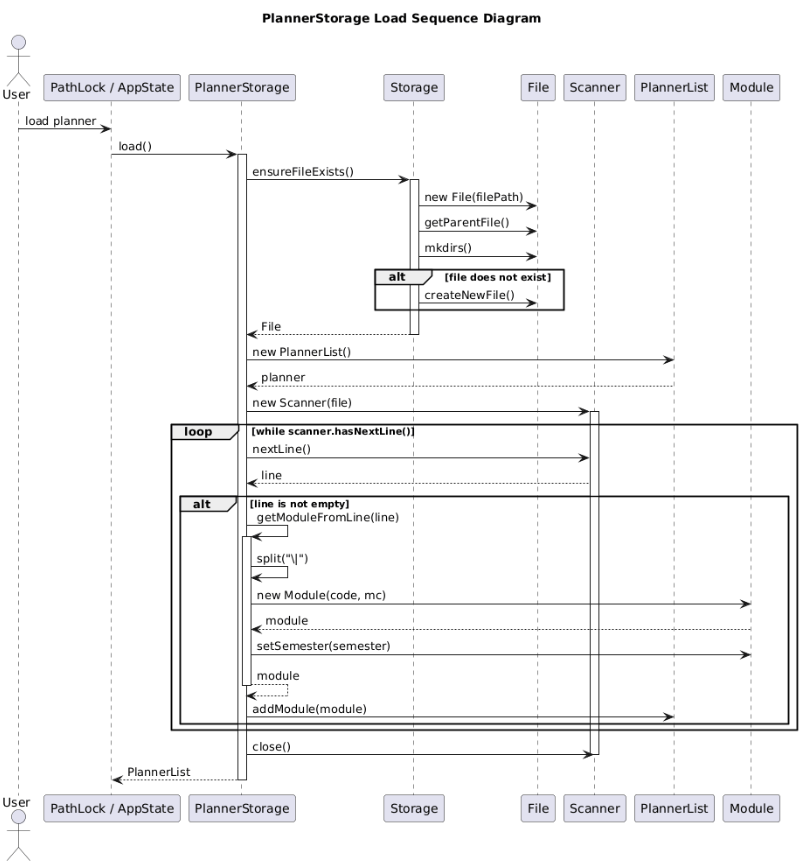
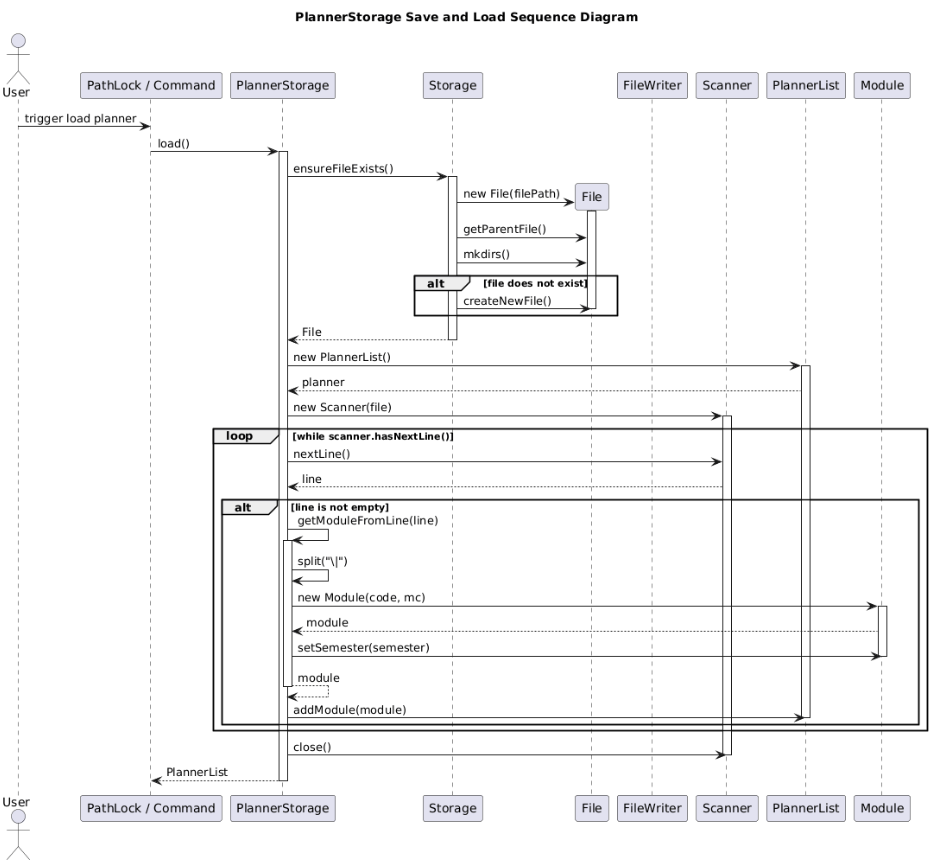
changed UML diagrams

diff --git a/docs/DeveloperGuide.md b/docs/DeveloperGuide.md
@@ -194,10 +194,11 @@ moduleCode|mc
 ```
 
 #### Sequence Diagram:
+Mod Load:
+![Mod Load](Diagrams/SequenceModStorageLoad.png)
 
-![](Diagrams/SequenceModStorageLoad.png)
-
-![](Diagrams/SequenceModStorageSave.png)
+Mod Save:
+![Mod Save](Diagrams/SequenceModStorageSave.png)
 ---
 
 ##### Profile Storage: `ProfileStorage`
@@ -230,7 +231,7 @@ Username|GPA
 ```
 
 #### Sequence Diagram:
-
+Sa
 ---
 
 ##### Planner Storage: `PlannerStorage`
@@ -275,9 +276,11 @@ CS2040C|Y2S2|4
 
 #### Sequence Diagram:
 
-![](Diagrams/SequencePlannerStorageLoad.png)
+Planner Load:
+![Planner Load](Diagrams/SequencePlannerStorageLoad.png)
 
-![](Diagrams/SequencePlannerStorageSave.png)
+Planner Save:
+![Planner Save](Diagrams/SequencePlannerStorageSave.png)
 ---
 ## 4. Implementation: Shi Yong
 
